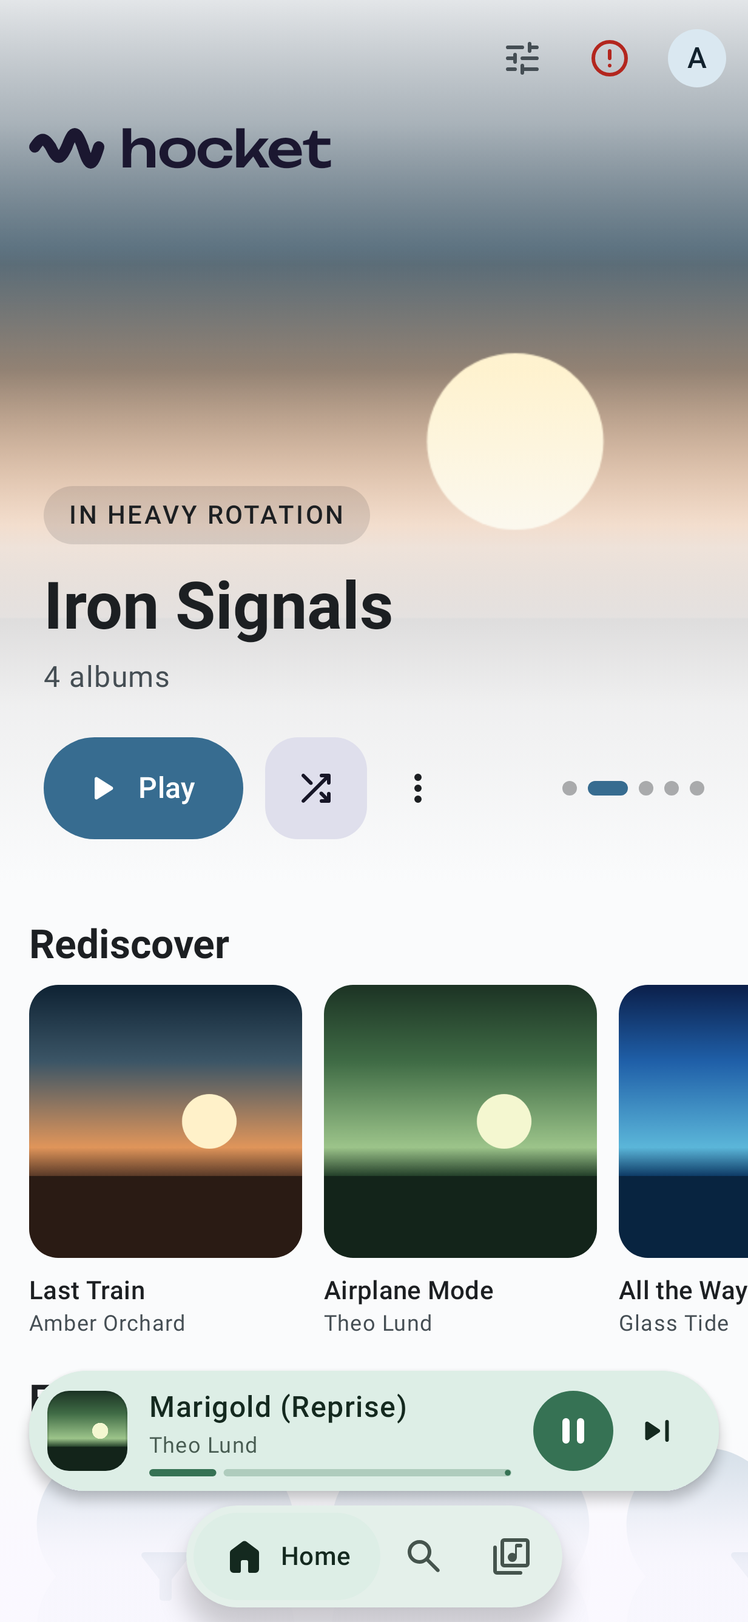
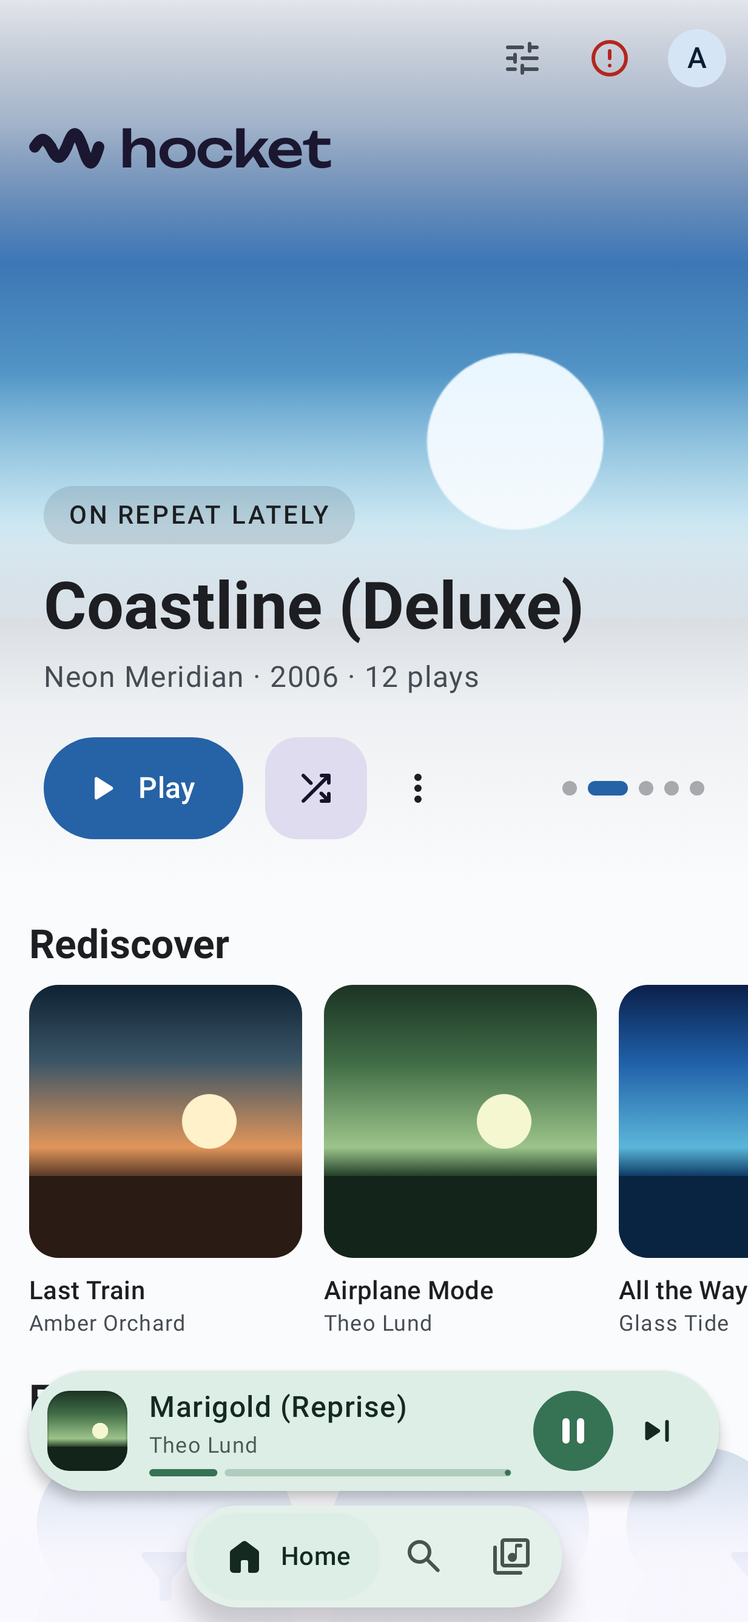
Spotlight: review fixes
- Load Spotlight on its own: on arriving at Home, when another album
  starts, and when the favourites or the albums to resume change, not on
  every track or library sync. The slide in view stays in view, and Play
  on a slide no longer pulls it out from under the pointer.
- Desktop: go on without stats when the stats query fails, and report
  empty with no server, so Home's empty state still shows.
- Desktop: re-derive the accent tokens (tonal surfaces, selections) on a
  tinted Home, so it wears one palette, not two.
- Desktop: arrow keys move focus to the same control on the next slide;
  the carousel's controls sit on a pill that reads over pale covers.
- Both: with colour from artwork off, slides keep the app's colours; the
  Resume slide shows the album's latest point; a pale cover is dimmed a
  little more in the dark theme.

Changed region(s): [[0.0, 0.0932, 1.0, 0.4347]]

diff --git a/desktop/src/renderer/views/HomeSpotlight.tsx b/desktop/src/renderer/views/HomeSpotlight.tsx
@@ -1,4 +1,4 @@
-import { useEffect, useMemo, useState } from "react";
+import { useEffect, useMemo, useRef, useState } from "react";
 import { t } from "@shared/strings";
 import type { ActionTarget, ListeningStats } from "@core/api";
 import { useApp } from "../store/app";
@@ -43,27 +43,55 @@ function useSlideAccents(slides: SpotlightSlide[]): Record<string, string | unde
  * …), each its cover across the slide fading into the page behind its reason, title and Play /
  * Shuffle / more. A slide's colours come from its cover but always in the app's light or dark: a
  * pale cover never turns a slide light in the dark theme. [onAccent] reports the slide in view's
- * accent, so the rest of Home can wear it; [onEmpty] says when there's nothing to show.
+ * accent, so the rest of Home can wear it; [onEmpty] says when there's nothing to show. With
+ * [dynamic] (colour from artwork) off, slides keep the app's accent.
+ *
+ * It loads on arriving at Home, when another album starts, and when the favourites or the albums
+ * to resume change; not per track. What's playing as it loads is left out, except from the slide
+ * in view: pressing Play on a slide keeps it there rather than pulling it out from under the pointer.
  */
-export function HomeSpotlight({ stats, statsReady, onAccent, onEmpty }: { stats?: ListeningStats; statsReady: boolean; onAccent: (accent: string | undefined) => void; onEmpty: (empty: boolean) => void }) {
+export function HomeSpotlight({ stats, statsReady, dynamic, onAccent, onEmpty }: { stats?: ListeningStats; statsReady: boolean; dynamic: boolean; onAccent: (accent: string | undefined) => void; onEmpty: (empty: boolean) => void }) {
   const serverId = useApp((s) => s.servers[0]?.id ?? "");
   const navigate = useApp((s) => s.navigate);
-  const playing = useApp((s) => s.nowPlaying?.track);
   const resumes = useApp((s) => s.albumResumes);
+  const playingAlbum = useApp((s) => s.nowPlaying?.track.albumId);
   const resumeKey = resumes.map((r) => r.albumId).sort().join(",");
+  // What the picks are made from, not the stats object itself (a new one after every library sync).
+  const statsKey = stats ? [...stats.topAlbums.slice(0, 12).map((a) => a.id), "|", ...stats.topArtists.slice(0, 4).map((a) => a.id)].join(",") : "";
+  const statsRef = useRef(stats);
+  statsRef.current = stats;
   const theme = useResolvedTheme();
   const [slides, setSlides] = useState<SpotlightSlide[] | undefined>(undefined);
   const [index, setIndex] = useState(0);
+  const section = useRef<HTMLElement>(null);
+  const slidesRef = useRef(slides);
+  slidesRef.current = slides;
+  const shownKey = useRef<string | undefined>(undefined);
   useEffect(() => {
-    if (!serverId || !statsReady) return;
+    if (!serverId) { setSlides([]); return; }
+    if (!statsReady) return;
     let live = true;
-    void loadSpotlight({ serverId, resumes, playing: { albumId: playing?.albumId, artistId: playing?.artistId }, stats, seed: spotlightSeed(), query: (q) => bridge().query(q) })
-      .then((s) => { if (live) setSlides(s); });
+    const st = useApp.getState();
+    const track = st.nowPlaying?.track;
+    const shown = slidesRef.current?.find((x) => slideKey(x) === shownKey.current);
+    const fromShown = !!track && !!shown && (shown.album?.id === track.albumId || (!shown.album && shown.artist?.id === track.artistId));
+    const playing = fromShown ? undefined : track;
+    void loadSpotlight({ serverId, resumes: st.albumResumes, playing: { albumId: playing?.albumId, artistId: playing?.artistId }, stats: statsRef.current, seed: spotlightSeed(), query: (q) => bridge().query(q) })
+      .then((s) => {
+        if (!live) return;
+        setSlides(s);
+        // Stay on the slide in view if it's still there.
+        const keep = shownKey.current ? s.findIndex((x) => slideKey(x) === shownKey.current) : -1;
+        setIndex(keep >= 0 ? keep : 0);
+      });
     return () => { live = false; };
-  }, [serverId, statsReady, stats, playing?.albumId, playing?.artistId, resumeKey]); // eslint-disable-line react-hooks/exhaustive-deps
+  }, [serverId, statsReady, statsKey, resumeKey, playingAlbum]);
   const list = slides ?? [];
   const at = Math.min(index, Math.max(0, list.length - 1));
-  const accents = useSlideAccents(list);
+  shownKey.current = list[at] ? slideKey(list[at]) : undefined;
+  const allAccents = useSlideAccents(list);
+  const accents = dynamic ? allAccents : {};
+  const latestResume = new Map(resumes.map((r) => [r.albumId, r]));
   const current = list[at];
   const currentAccent = current ? accents[slideCover(current) ?? ""] : undefined;
   useEffect(() => onAccent(currentAccent), [currentAccent]); // eslint-disable-line react-hooks/exhaustive-deps
@@ -72,8 +100,12 @@ export function HomeSpotlight({ stats, statsReady, onAccent, onEmpty }: { stats?
   const go = (i: number) => setIndex((i + list.length) % list.length);
   const onKey = (e: React.KeyboardEvent) => {
     if (e.target instanceof HTMLElement && e.target.closest("input, textarea")) return;
-    if (e.key === "ArrowRight") { e.preventDefault(); go(at + 1); }
-    else if (e.key === "ArrowLeft") { e.preventDefault(); go(at - 1); }
+    if (e.key !== "ArrowRight" && e.key !== "ArrowLeft") return;
+    e.preventDefault();
+    // Focus on a slide's control follows to the same control on the next slide (the old one is hidden).
+    const role = e.target instanceof HTMLElement && e.target.closest(".spot-slide") ? e.target.dataset.spot : undefined;
+    go(at + (e.key === "ArrowRight" ? 1 : -1));
+    if (role) requestAnimationFrame(() => section.current?.querySelector<HTMLElement>(`.spot-slide.active [data-spot="${role}"]`)?.focus());
   };
   const open = (s: SpotlightSlide) => {
     if (s.album) navigate({ view: "album", id: s.album.id });
@@ -81,10 +113,10 @@ export function HomeSpotlight({ stats, statsReady, onAccent, onEmpty }: { stats?
     else if (s.playlist) navigate({ view: "playlist", id: s.playlist.id });
   };
   return (
-    <section className="home-spotlight" aria-roledescription="carousel" aria-label={t("spotlight.label")} data-testid="home-spotlight" onKeyDown={onKey}>
+    <section ref={section} className="home-spotlight" aria-roledescription="carousel" aria-label={t("spotlight.label")} data-testid="home-spotlight" onKeyDown={onKey}>
       <div className="spot-track" style={{ transform: `translateX(${-at * 100}%)` }}>
         {list.map((s, i) => (
-          <Slide key={slideKey(s)} slide={s} active={i === at} position={t("spotlight.goTo", { n: i + 1, total: list.length })} accent={accents[slideCover(s) ?? ""]} theme={theme} serverId={serverId} onOpen={() => open(s)} />
+          <Slide key={slideKey(s)} slide={s.resume ? { ...s, resume: latestResume.get(s.resume.albumId) ?? s.resume } : s} active={i === at} position={t("spotlight.goTo", { n: i + 1, total: list.length })} accent={accents[slideCover(s) ?? ""]} theme={theme} serverId={serverId} onOpen={() => open(s)} />
         ))}
       </div>
       {list.length > 1 ? (
@@ -128,12 +160,12 @@ function Slide({ slide, active, position, accent, theme, serverId, onOpen }: { s
       <span className="spot-scrim" aria-hidden="true" />
       <div className="spot-content">
         <span className="spot-eyebrow">{eyebrow}</span>
-        <h2 className="spot-title"><button type="button" className="spot-open" tabIndex={tab} onClick={onOpen} title={title}>{title}</button></h2>
+        <h2 className="spot-title"><button type="button" className="spot-open" data-spot="open" tabIndex={tab} onClick={onOpen} title={title}>{title}</button></h2>
         {sub ? <p className="spot-sub">{sub}</p> : null}
         <div className="spot-actions">
-          <button type="button" className="btn spot-play" tabIndex={tab} onClick={() => playSlide(serverId, slide, false)} data-testid="spotlight-play"><Icon name="play" size={18} /> {slide.resume ? t("album.resume") : t("album.play")}</button>
-          <button type="button" className="btn icon spot-shuffle" tabIndex={tab} aria-label={`${t("album.shuffle")}: ${title}`} onClick={() => playSlide(serverId, slide, true)}><Icon name="shuffle" size={18} /></button>
-          {target ? <button type="button" className="btn icon spot-more" tabIndex={tab} aria-label={`${t("misc.more")}: ${title}`} onClick={(e) => void openContextMenu(e, target)}><Icon name="moreVert" size={18} /></button> : null}
+          <button type="button" className="btn spot-play" data-spot="play" tabIndex={tab} onClick={() => playSlide(serverId, slide, false)} data-testid="spotlight-play"><Icon name="play" size={18} /> {slide.resume ? t("album.resume") : t("album.play")}</button>
+          <button type="button" className="btn icon spot-shuffle" data-spot="shuffle" tabIndex={tab} aria-label={`${t("album.shuffle")}: ${title}`} onClick={() => playSlide(serverId, slide, true)}><Icon name="shuffle" size={18} /></button>
+          {target ? <button type="button" className="btn icon spot-more" data-spot="more" tabIndex={tab} aria-label={`${t("misc.more")}: ${title}`} onClick={(e) => void openContextMenu(e, target)}><Icon name="moreVert" size={18} /></button> : null}
         </div>
       </div>
     </div>

diff --git a/android/app/src/main/java/app/hocket/ui/screens/home/HomeScreen.kt b/android/app/src/main/java/app/hocket/ui/screens/home/HomeScreen.kt
@@ -140,28 +140,49 @@ fun HomeScreen(nav: NavHostController) {
     // A new song starting changes what "most played" and "lately" mean: re-read on track change.
     val playing = client.nowPlaying.collectAsStateWithLifecycle().value?.track
     val nowPlayingId = playing?.id
+    val resumePoints = client.albumResumes.collectAsStateWithLifecycle().value
     // Spotlight's Resume slide: re-read when an album gains or loses its resume point.
-    val resumeAlbums = client.albumResumes.collectAsStateWithLifecycle().value.map { it.albumId }.toSet()
+    val resumeAlbums = resumePoints.map { it.albumId }.toSet()
     val prefs = remember(settings[SettingKeys.HOME_SECTIONS]?.value) { HomeSections.parse(settings[SettingKeys.HOME_SECTIONS]?.value) }
     val shown = prefs.filter { it.on && it.section != null }
     val shownSet = shown.mapNotNull { it.section }.toSet()
     // Starts from the last feed, so coming back to Home (a pop from a page opened here) shows its
     // rows on the first frame — the artwork that flew out has somewhere to fly back to.
     var feed by rememberCachedState<Map<HomeSection, SectionContent>?>(listOf("home.feed", serverId)) { null }
-    LaunchedEffect(serverId, libraryGen, shownSet, nowPlayingId, resumeAlbums) {
+    val feedSections = shownSet - HomeSection.Spotlight
+    LaunchedEffect(serverId, libraryGen, feedSections, nowPlayingId) {
         if (libraryGen < 0) return@LaunchedEffect
-        feed = loadHomeFeed(client, serverId, shownSet, playing, client.albumResumes.value)
+        feed = loadHomeFeed(client, serverId, feedSections)
     }
-    // Spotlight comes first whatever the stored order (it's pinned), drawn without a header.
-    val slides = (feed?.get(HomeSection.Spotlight) as? SectionContent.Spotlight)?.slides.orEmpty().takeIf { HomeSection.Spotlight in shownSet }.orEmpty()
+    // Spotlight loads on its own: on arriving at Home, when another album starts, and when the
+    // library or the albums to resume change; not per track. What's playing as it loads is left
+    // out, except from the slide in view: Play on a slide keeps it under the user's thumb.
+    val spotlightOn = HomeSection.Spotlight in shownSet
+    var spotlight by rememberCachedState<List<SpotlightSlide>?>(listOf("home.spotlight", serverId)) { null }
+    val shownSlide = remember { mutableStateOf<SpotlightSlide?>(null) }
+    LaunchedEffect(serverId, libraryGen, spotlightOn, resumeAlbums, playing?.albumId) {
+        if (libraryGen < 0 || !spotlightOn) return@LaunchedEffect
+        val track = client.nowPlaying.value?.track
+        val inView = shownSlide.value
+        val fromInView = track != null && inView != null && (inView.album?.id == track.albumId || (inView.album == null && inView.artist?.id == track.artistId))
+        spotlight = loadSpotlight(client, serverId, client.albumResumes.value, track.takeUnless { fromInView }, favouriteStats(client), spotlightSeed())
+    }
+    // Spotlight comes first whatever the stored order (it's pinned), drawn without a header. A
+    // Resume slide shows the album's latest point (positions save without reloading).
+    val latestResume = resumePoints.associateBy { it.albumId }
+    val slides = spotlight.orEmpty().takeIf { spotlightOn }.orEmpty().map { s -> s.resume?.let { latestResume[it.albumId] }?.let { s.copy(resume = it) } ?: s }
     val pager = rememberPagerState { slides.size }
+    shownSlide.value = slides.getOrNull(pager.currentPage)
     val dark = LocalDarkTheme.current
     val slideSeeds = slides.map { key(it.key) { artworkSeed(it.coverArt).value } }
-    val slideSchemes = remember(slides, slideSeeds, dark) { slides.mapIndexed { i, s -> ArtworkColors.scheme(slideSeeds[i] ?: ArtworkColors.seedFor(s.coverArt), dark) } }
-    // The rest of Home takes the colours of the slide in view (as the app does from what's
-    // playing), unless colour from artwork is off.
+    // The slides, and the rest of Home, take the colours of the slide in view (as the app does from
+    // what's playing), unless colour from artwork is off.
     val dynamicColour = settings[SettingKeys.DISPLAY_DYNAMIC_COLOUR]?.value?.trim() != "false"
-    val pageScheme = slideSchemes.getOrNull(pager.currentPage)?.takeIf { dynamicColour } ?: MaterialTheme.colorScheme
+    val appScheme = MaterialTheme.colorScheme
+    val slideSchemes = remember(slides, slideSeeds, dark, dynamicColour, appScheme) {
+        slides.mapIndexed { i, s -> if (dynamicColour) ArtworkColors.scheme(slideSeeds[i] ?: ArtworkColors.seedFor(s.coverArt), dark) else appScheme }
+    }
+    val pageScheme = slideSchemes.getOrNull(pager.currentPage) ?: appScheme
     val heroFirst = slides.isNotEmpty()
     var customising by remember { mutableStateOf(false) }
     var sectionMenu by remember { mutableStateOf<SectionPref?>(null) }

diff --git a/desktop/src/renderer/styles/m3-pages.css b/desktop/src/renderer/styles/m3-pages.css
@@ -801,6 +801,20 @@ button.m3-switch { border: 0; padding: 0; background: none; }
    Each slide: its cover blurred across the slide and sharp at the right, under a wash of the
    theme's own background (tinted by the cover), so a pale cover never lights a slide in the dark
    theme. Text and buttons sit on the wash at the left. */
+/* The tokens global.css derives from the accent, derived again here: a custom property resolves
+   where it's declared, so without these Home's tonal surfaces and selections keep the old accent. */
+.page-home.spot-tinted {
+  --accent-soft: color-mix(in srgb, var(--accent-tint) 18%, transparent);
+  --accent-ring: var(--focus-ring);
+  --surface-tonal: color-mix(in srgb, var(--accent-tint) 5%, var(--bg-elev));
+  --surface-tonal-sunken: color-mix(in srgb, var(--accent-tint) 5%, var(--bg-sunken));
+  --selection: color-mix(in srgb, var(--accent-tint) 22%, transparent);
+  --state-selected: color-mix(in srgb, var(--accent-tint) 22%, var(--bg-elev));
+}
+:root[data-theme="dark"] .page-home.spot-tinted {
+  --selection: color-mix(in srgb, var(--accent-tint) 30%, transparent);
+  --state-selected: color-mix(in srgb, var(--accent-tint) 30%, var(--bg-elev));
+}
 .page-home.spot-tinted .home-main { background: linear-gradient(180deg, color-mix(in srgb, var(--home-tint) 22%, var(--bg)) 0, var(--bg) 640px); }
 .home-spotlight { position: relative; margin: 0 0 28px; border-radius: 32px; overflow: hidden; isolation: isolate; }
 .spot-track { display: flex; transition: transform 520ms var(--ease-emphasized, cubic-bezier(0.2, 0, 0, 1)); }
@@ -841,11 +855,12 @@ button.m3-switch { border: 0; padding: 0; background: none; }
 .btn.spot-play:hover { filter: brightness(1.08); box-shadow: var(--shadow-2); }
 .btn.icon.spot-shuffle { width: 52px; height: 52px; border-radius: 18px; background: color-mix(in srgb, var(--spot-accent, var(--accent)) 24%, var(--spot-surface)); color: var(--fg); }
 .btn.icon.spot-more { width: 44px; height: 44px; color: var(--fg); }
-.spot-nav { position: absolute; right: 20px; top: 20px; display: flex; align-items: center; gap: 6px; }
-.btn.icon.spot-arrow { width: 36px; height: 36px; color: var(--fg); background: color-mix(in srgb, var(--bg) 55%, transparent); }
+/* On a pill of the page's own background, so they read over any cover, pale ones included. */
+.spot-nav { position: absolute; right: 20px; top: 20px; display: flex; align-items: center; gap: 4px; padding: 4px; border-radius: 999px; background: color-mix(in srgb, var(--bg) 82%, transparent); box-shadow: var(--shadow-1); }
+.btn.icon.spot-arrow { width: 34px; height: 34px; color: var(--fg); }
 .spot-dots { display: flex; gap: 6px; padding: 0 6px; }
-.spot-dot { width: 8px; height: 8px; padding: 0; border: 0; border-radius: 4px; background: color-mix(in srgb, var(--fg) 35%, transparent); cursor: pointer; transition: width var(--dur-short, 160ms) var(--ease-emphasized, ease), background-color var(--dur-short, 160ms); }
-.spot-dot.on { width: 22px; background: var(--accent); }
+.spot-dot { width: 8px; height: 8px; padding: 0; border: 0; border-radius: 4px; background: color-mix(in srgb, var(--fg) 45%, transparent); cursor: pointer; transition: width var(--dur-short, 160ms) var(--ease-emphasized, ease), background-color var(--dur-short, 160ms); }
+.spot-dot.on { width: 22px; background: var(--accent-text); }
 .customise-row.pinned .grip { visibility: hidden; }
 /* In the dark theme a bright cover is kept a little down, so the slide reads as part of a dark page. */
 :root[data-theme="dark"] .spot-bg { opacity: 0.4; }

diff --git a/android/app/src/main/java/app/hocket/ui/screens/home/HomeFeed.kt b/android/app/src/main/java/app/hocket/ui/screens/home/HomeFeed.kt
@@ -3,7 +3,6 @@ package app.hocket.ui.screens.home
 import app.hocket.core.Queries
 import app.hocket.core.toSummary
 import app.hocket.core.api.Album
-import app.hocket.core.api.AlbumResumePoint
 import app.hocket.core.api.Artist
 import app.hocket.core.api.FilterField
 import app.hocket.core.api.FilterNode
@@ -27,7 +26,6 @@ sealed interface SectionContent {
     data class Artists(val items: List<Artist>) : SectionContent { override val isEmpty get() = items.isEmpty() }
     data class Tracks(val items: List<TrackSummary>, override val title: String? = null) : SectionContent { override val isEmpty get() = items.isEmpty() }
     data class Listening(val totalMs: Double, val plays: Int, val byWeekday: List<Int>) : SectionContent { override val isEmpty get() = plays == 0 }
-    data class Spotlight(val slides: List<SpotlightSlide>) : SectionContent { override val isEmpty get() = slides.isEmpty() }
     /** Filled from the client's flows (filters, saved queues), not a query. */
     data object FromFlow : SectionContent { override val isEmpty get() = false }
 }
@@ -45,7 +43,7 @@ private val REDISCOVER: FilterNode = FilterNode.All(listOf(
 ))
 
 /** Listening stats for favourites: the last month's, or the year's when the month has no plays. */
-private suspend fun favouriteStats(client: CoreClient): ListeningStats? {
+internal suspend fun favouriteStats(client: CoreClient): ListeningStats? {
     val month = (client.query(Queries.stats(30)) as? QueryResult.Stats)?.data
     if (month != null && month.totalPlays != 0u) return month
     return (client.query(Queries.stats(365)) as? QueryResult.Stats)?.data ?: month
@@ -59,20 +57,14 @@ suspend fun moreFromArtist(client: CoreClient): Artist? = favouriteStats(client)
  * read once and shared; a month with no plays falls back to the year, so a quiet month still has
  * favourites.
  */
-suspend fun loadHomeFeed(
-    client: CoreClient,
-    serverId: String,
-    shown: Set<HomeSection>,
-    playing: TrackSummary? = null,
-    resumes: List<AlbumResumePoint> = emptyList(),
-    seed: Int = spotlightSeed(),
-): Map<HomeSection, SectionContent> {
-    val needsStats = shown.any { it == HomeSection.Spotlight || it == HomeSection.FavouriteArtists || it == HomeSection.TopGenre || it == HomeSection.MoreFromArtist || it == HomeSection.OnRepeat }
+suspend fun loadHomeFeed(client: CoreClient, serverId: String, shown: Set<HomeSection>): Map<HomeSection, SectionContent> {
+    val needsStats = shown.any { it == HomeSection.FavouriteArtists || it == HomeSection.TopGenre || it == HomeSection.MoreFromArtist || it == HomeSection.OnRepeat }
     val stats = if (needsStats) favouriteStats(client) else null
     val out = LinkedHashMap<HomeSection, SectionContent>()
     for (section in shown) {
         val content: SectionContent? = when (section) {
-            HomeSection.Spotlight -> SectionContent.Spotlight(loadSpotlight(client, serverId, resumes, playing, stats, seed))
+            // Loaded on its own (HomeScreen), not with the feed.
+            HomeSection.Spotlight -> null
             HomeSection.Rediscover -> (client.query(Queries.tracks(serverId, Page(0u, SECTION_ITEMS.toUInt()), SortOrder.Rating, descending = true, filter = REDISCOVER)) as? QueryResult.Tracks)
                 ?.data?.items?.map { it.toSummary() }?.let { SectionContent.Tracks(it) }
             HomeSection.Filters, HomeSection.RecentQueues -> SectionContent.FromFlow

diff --git a/desktop/src/renderer/views/Home.tsx b/desktop/src/renderer/views/Home.tsx
@@ -1,6 +1,6 @@
 import { useEffect, useMemo, useRef, useState } from "react";
 import { t } from "@shared/strings";
-import type { ActionTarget, Album, Artist, Filter, SavedQueue, TrackSummary } from "@core/api";
+import type { ActionTarget, Album, Artist, Filter, ListeningStats, SavedQueue, TrackSummary } from "@core/api";
 import { useApp, useJsonSetting, useSetting, type MenuItem } from "../store/app";
 import { SK } from "@shared/settings-keys";
 import { accentTokens } from "../lib/contrast";
@@ -68,7 +68,7 @@ export function Home() {
   const allEmpty = shown.length === 0 || shown.every((p) => empties[p.id] === true);
   // Spotlight is pinned first whatever the stored order, and drawn without a section header.
   const spotlightOn = shown.some((p) => p.id === "spotlight");
-  const spotStats = useListeningStats(spotlightOn);
+  const spotStats = useSpotlightStats(spotlightOn);
   const [spotAccent, setSpotAccent] = useState<string | undefined>(undefined);
   const dynamic = useSetting(SK.displayDynamicColour, true);
   const theme = useResolvedTheme();
@@ -110,7 +110,7 @@ export function Home() {
             </div>
           </div>
           <div className="view-body">
-            {spotlightOn ? <HomeSpotlight stats={spotStats} statsReady={spotStats !== undefined} onAccent={setSpotAccent} onEmpty={(e) => reportEmpty("spotlight", e)} /> : null}
+            {spotlightOn ? <HomeSpotlight stats={spotStats.stats} statsReady={spotStats.settled} dynamic={dynamic} onAccent={setSpotAccent} onEmpty={(e) => reportEmpty("spotlight", e)} /> : null}
             {shown.filter((p) => p.id !== "spotlight").map((p) => (
               <Section key={p.id} pref={p} onEmpty={(e) => reportEmpty(p.id, e)} menu={(title) => sectionMenu(p, title)} />
             ))}
@@ -294,6 +294,21 @@ function useListeningStats(enabled: boolean) {
   // A quiet month falls back to the year, so favourites are still there.
   const year = useQuery(() => (enabled && month.data && month.data.totalPlays === 0 ? { type: "stats", data: { period_days: 365 } } : null), "stats", [enabled, month.data?.totalPlays]);
   return month.data && month.data.totalPlays === 0 && year.data ? year.data : month.data;
+}
+
+/**
+ * The favourites' stats for Spotlight, as useListeningStats but not re-read per track (Spotlight
+ * doesn't reload on a track change), and settled even when a query fails: Spotlight then goes on
+ * without stats (Resume, Just added and the rest don't need them).
+ */
+function useSpotlightStats(enabled: boolean): { stats?: ListeningStats; settled: boolean } {
+  const month = useQuery(() => (enabled ? { type: "stats", data: { period_days: 30 } } : null), "stats", [enabled]);
+  const quiet = !!month.data && month.data.totalPlays === 0;
+  const year = useQuery(() => (enabled && quiet ? { type: "stats", data: { period_days: 365 } } : null), "stats", [enabled, quiet]);
+  const monthDone = !!month.data || !!month.error;
+  if (!monthDone) return { settled: false };
+  if (!quiet) return { stats: month.data, settled: true };
+  return year.data || year.error ? { stats: year.data ?? month.data, settled: true } : { settled: false };
 }
 
 /** Albums by id, in that order (recently played reads them one by one). */

diff --git a/android/app/src/main/java/app/hocket/ui/screens/home/SpotlightCarousel.kt b/android/app/src/main/java/app/hocket/ui/screens/home/SpotlightCarousel.kt
@@ -48,6 +48,7 @@ import app.hocket.R
 import app.hocket.core.ArtworkSizes
 import app.hocket.ui.components.Artwork
 import app.hocket.ui.icons.HocketIcons
+import app.hocket.ui.theme.LocalDarkTheme
 
 /**
  * The Spotlight carousel: one full-bleed slide per pick, its artwork running up under the top bar
@@ -103,9 +104,11 @@ private fun SpotlightPage(slide: SpotlightSlide, page: Int, count: Int, onOpen: 
         // A wash at the top for the bar's lockup and buttons, and the page's own surface rising
         // under the text so it reads on any cover.
         // A pale cover stays a pale picture, but never lights the slide: the wash is the theme's surface.
+        // In the dark theme the middle keeps more of the wash, so a white cover reads as a dimmed picture, not a bright band.
+        val mid = if (LocalDarkTheme.current) 0.32f else 0.12f
         Box(Modifier.fillMaxSize().background(Brush.verticalGradient(
-            0f to cs.surface.copy(alpha = 0.9f), 0.14f to cs.surface.copy(alpha = 0.62f), 0.3f to cs.surface.copy(alpha = 0.12f),
-            0.42f to cs.surface.copy(alpha = 0.12f), 0.62f to cs.surface.copy(alpha = 0.8f), 0.8f to cs.surface.copy(alpha = 0.95f), 1f to cs.surface,
+            0f to cs.surface.copy(alpha = 0.9f), 0.14f to cs.surface.copy(alpha = 0.62f), 0.3f to cs.surface.copy(alpha = mid),
+            0.42f to cs.surface.copy(alpha = mid), 0.62f to cs.surface.copy(alpha = 0.8f), 0.8f to cs.surface.copy(alpha = 0.95f), 1f to cs.surface,
         )))
         Column(Modifier.align(Alignment.BottomStart).fillMaxWidth().padding(start = 24.dp, end = 24.dp, bottom = 24.dp)) {
             // The words open the album, artist or playlist (not the whole slide: its top is under the bar's buttons).

diff --git a/desktop/e2e/spotlight-screenshots.spec.ts b/desktop/e2e/spotlight-screenshots.spec.ts
@@ -45,6 +45,9 @@ test("spotlight", async () => {
       await page.evaluate(() => window.hocket.dispatch({ type: "pause" }));
       await expect(page.getByTestId("view-home")).toBeVisible();
       await expect(page.getByTestId("home-spotlight")).toBeVisible();
+      // Resume comes first; the carousel stays on the slide that was in view when it arrived, so go to it.
+      await expect(page.getByTestId("spotlight-slide-resume")).toHaveCount(1);
+      await page.locator(".spot-dot").first().click();
       await expect(page.getByTestId("spotlight-slide-resume")).toHaveClass(/active/);
       await settle(page);
       await page.screenshot({ path: join(out!, `desktop-${theme}-spotlight-1.png`) });
